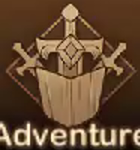
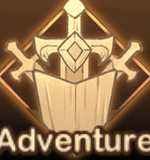
Misty Valley: sturdier entry, give up a challenge after a defeat; honest end message; Node 24 actions
- Entry recognises each screen (campaign, Events on either tab, world map,
  Continue Adventure popup) and does the next step. Templates recut from
  full-resolution screenshots.
- After a defeat, drop the challenge that team was built for and win the
  stage with the 5 strongest heroes; stop after 2 defeats on one stage.
- Run Activity says "stopped" instead of "Activity completed!" when
  Misty Valley stops early or Stop was pressed.
- Build workflow: checkout v5, setup-python v6, upload-artifact v6,
  action-gh-release v3 (all on Node 24).

diff --git a/src/activities/misty_valley.py b/src/activities/misty_valley.py
@@ -56,6 +56,7 @@ SKIP_GOLDS = {'victorious'}
 
 LAST_STAGE = 20
 MAX_ATTEMPTS_PER_STAGE = 4
+MAX_DEFEATS_PER_STAGE = 2
 
 # Formation screen
 FACTION_Y = 1678
@@ -161,6 +162,7 @@ class StageInfo:
 @dataclass
 class StageMemory:
     attempts: int = 0
+    defeats: int = 0
     silver_impossible: bool = False
     gold_impossible: bool = False
 
@@ -186,7 +188,7 @@ def next_battle(info: StageInfo, mem: StageMemory) -> Optional[BattlePlan]:
 
     if not (silver_needed or gold_constraint or gold_win or stone_needed):
         return None
-    if mem.attempts >= MAX_ATTEMPTS_PER_STAGE:
+    if mem.attempts >= MAX_ATTEMPTS_PER_STAGE or mem.defeats >= MAX_DEFEATS_PER_STAGE:
         return None
 
     if silver_needed and gold_constraint:
@@ -198,8 +200,9 @@ def next_battle(info: StageInfo, mem: StageMemory) -> Optional[BattlePlan]:
     if gold_constraint:
         return BattlePlan('Gold', gold_plans(info.gold_kind), covers_gold=True,
                           fallback_any=stone_needed)
-    # Only a plain win is left (Stone and/or a win-type Gold)
-    plans = [silver_plan(info.silver_kind)] if info.silver_kind in SILVER_GROUPS else []
+    # Only a plain win is left (Stone and/or a win-type Gold).
+    # After a defeat, go straight to the 5 strongest heroes.
+    plans = [silver_plan(info.silver_kind)] if info.silver_kind in SILVER_GROUPS and not mem.defeats else []
     return BattlePlan('Win', plans + [any_plan()])
 
 
@@ -299,30 +302,50 @@ class MistyValleyActivities(BaseActivity):
         return self._visible('labels/misty/map_title', 0.8, (300, 20, 480, 100))
 
     def enter(self) -> bool:
-        """Campaign -> Events -> Adventure -> Misty Valley -> Continue Adventure"""
+        """Campaign -> Events -> Adventure -> Misty Valley -> world map flag -> Continue Adventure.
+
+        Works out which of those screens is showing and does the next step, so it
+        copes with the game remembering the Adventure tab or skipping a screen.
+        """
         logger.info("    Opening Misty Valley")
         self.controller.confirm_location('campaign')
         self.controller.expand_menus()
-        if not self.image.click_image('buttons/events', confidence=0.8, retry=3, seconds=3, suppress=True):
-            logger.warning("    Events button not found")
-            return False
-        # Adventure tab, then the Misty Valley banner
-        if not self.image.click_image('labels/misty/entry_adventure', confidence=0.7, retry=2,
-                                      seconds=2, suppress=True, region=(300, 1700, 400, 219)):
-            self.controller.tap(490, 1830, seconds=2)
-        if not self.image.click_image('labels/misty/entry_event_banner', confidence=0.7, retry=3,
-                                      seconds=4, suppress=True):
-            self.controller.tap(540, 400, seconds=4)
-        # World map: tap the Misty Valley flag (above its label)
-        if not self.image.click_image('labels/misty/entry_world_icon', confidence=0.7, retry=3,
-                                      seconds=2, suppress=True, xyshift=(0, -90)):
-            self.controller.tap(540, 990, seconds=2)
-        if not self.image.click_image('labels/misty/entry_continue', confidence=0.7, retry=3,
-                                      seconds=2, suppress=True):
-            self.controller.tap(540, 1525, seconds=2)
-        if self._wait_for('labels/misty/map_title', timeout=20, region=(300, 20, 480, 100)):
-            self.wait(2)   # let the camera settle on the cart
-            return True
+        end = time.time() + 60
+        idle = 0
+        while time.time() < end:
+            if self._stopped():
+                return False
+            _, gray = self._shot()
+            if self._score(gray, 'labels/misty/map_title', (300, 20, 480, 100))[0] >= 0.8:
+                self.wait(2)   # let the camera settle on the cart
+                return True
+            # "Continue Adventure" popup
+            score, pos = self._score(gray, 'labels/misty/entry_continue', (300, 1400, 480, 260))
+            if score >= 0.8:
+                self.controller.tap(*pos, seconds=2)
+                continue
+            # World map: the flag is just above the "Misty Valley" label
+            score, pos = self._score(gray, 'labels/misty/entry_world_icon', (0, 450, 1080, 1300))
+            if score >= 0.8:
+                self.controller.tap(pos[0], pos[1] - 140, seconds=2)
+                continue
+            # Events screen: open the Adventure tab, then the Misty Valley banner
+            if self._score(gray, 'labels/misty/entry_events_header', (250, 0, 580, 140))[0] >= 0.8:
+                score, pos = self._score(gray, 'labels/misty/entry_event_banner', (0, 240, 1080, 1450))
+                if score >= 0.8:
+                    self.controller.tap(*pos, seconds=3)
+                else:
+                    self.controller.tap(490, 1835, seconds=2)
+                continue
+            # Campaign screen: Events button
+            if self.image.click_image('buttons/events', confidence=0.8, seconds=3, suppress=True,
+                                      region=(0, 150, 300, 1100)):
+                continue
+            # Loading or a transition: wait, then try to get back to campaign
+            idle += 1
+            if idle in (8, 16):
+                self.controller.recover(silent=True)
+            time.sleep(0.5)
         if not self._stopped():
             logger.error("    Misty Valley map not found")
         return False
@@ -591,7 +614,16 @@ class MistyValleyActivities(BaseActivity):
         if result is True:
             logger.green(f"    Stage {info.number}: victory")
         elif result is False:
+            mem.defeats += 1
             logger.warning(f"    Stage {info.number}: defeat")
+            # That team was too weak: drop the challenge it was built for, so the
+            # next battle uses the 5 strongest heroes and at least wins the stage
+            if plan.covers_silver and not mem.silver_impossible:
+                mem.silver_impossible = True
+                logger.warning(f"    Giving up the Silver challenge on stage {info.number}")
+            if plan.covers_gold and not mem.gold_impossible:
+                mem.gold_impossible = True
+                logger.warning(f"    Giving up the Gold challenge on stage {info.number}")
         else:
             logger.warning(f"    Stage {info.number}: battle result not found")
             self.controller.recover(silent=True)
@@ -648,6 +680,10 @@ class MistyValleyActivities(BaseActivity):
                 mem = memory.setdefault(n, StageMemory())
                 plan = next_battle(info, mem)
                 if plan is None:
+                    if not info.stone_done:
+                        logger.error(f"    Couldn't win stage {n}, stopping")
+                        self._close_stage()
+                        return False
                     logger.green(f"    Stage {n} done")
                     finished.add(n)
                     self._close_stage()

diff --git a/main.py b/main.py
@@ -716,6 +716,7 @@ class App(ctk.CTk):
             logger.info("Device connected, running activity...")
             
             # Run specific activity
+            result = None
             if activity == "Arena of Heroes":
                 activity_mgr.arena.battle_arena_of_heroes(battles, 1, 
                                                          self.activity_pause_event,
@@ -731,9 +732,14 @@ class App(ctk.CTk):
             elif activity == "Guild Hunts":
                 activity_mgr.guild.handle_guild_hunts()
             elif activity == "Misty Valley":
-                activity_mgr.misty.run(self.activity_stop_event, self.activity_pause_event)
-                
-            logger.info("Activity completed!")
+                result = activity_mgr.misty.run(self.activity_stop_event, self.activity_pause_event)
+
+            if self.activity_stop_event.is_set():
+                logger.warning("Activity stopped")
+            elif result is False:
+                logger.warning(f"{activity} stopped before finishing (see the messages above)")
+            else:
+                logger.info("Activity completed!")
         except Exception as e:
             logger.error(f"Activity error: {e}", exc_info=True)
         finally:
